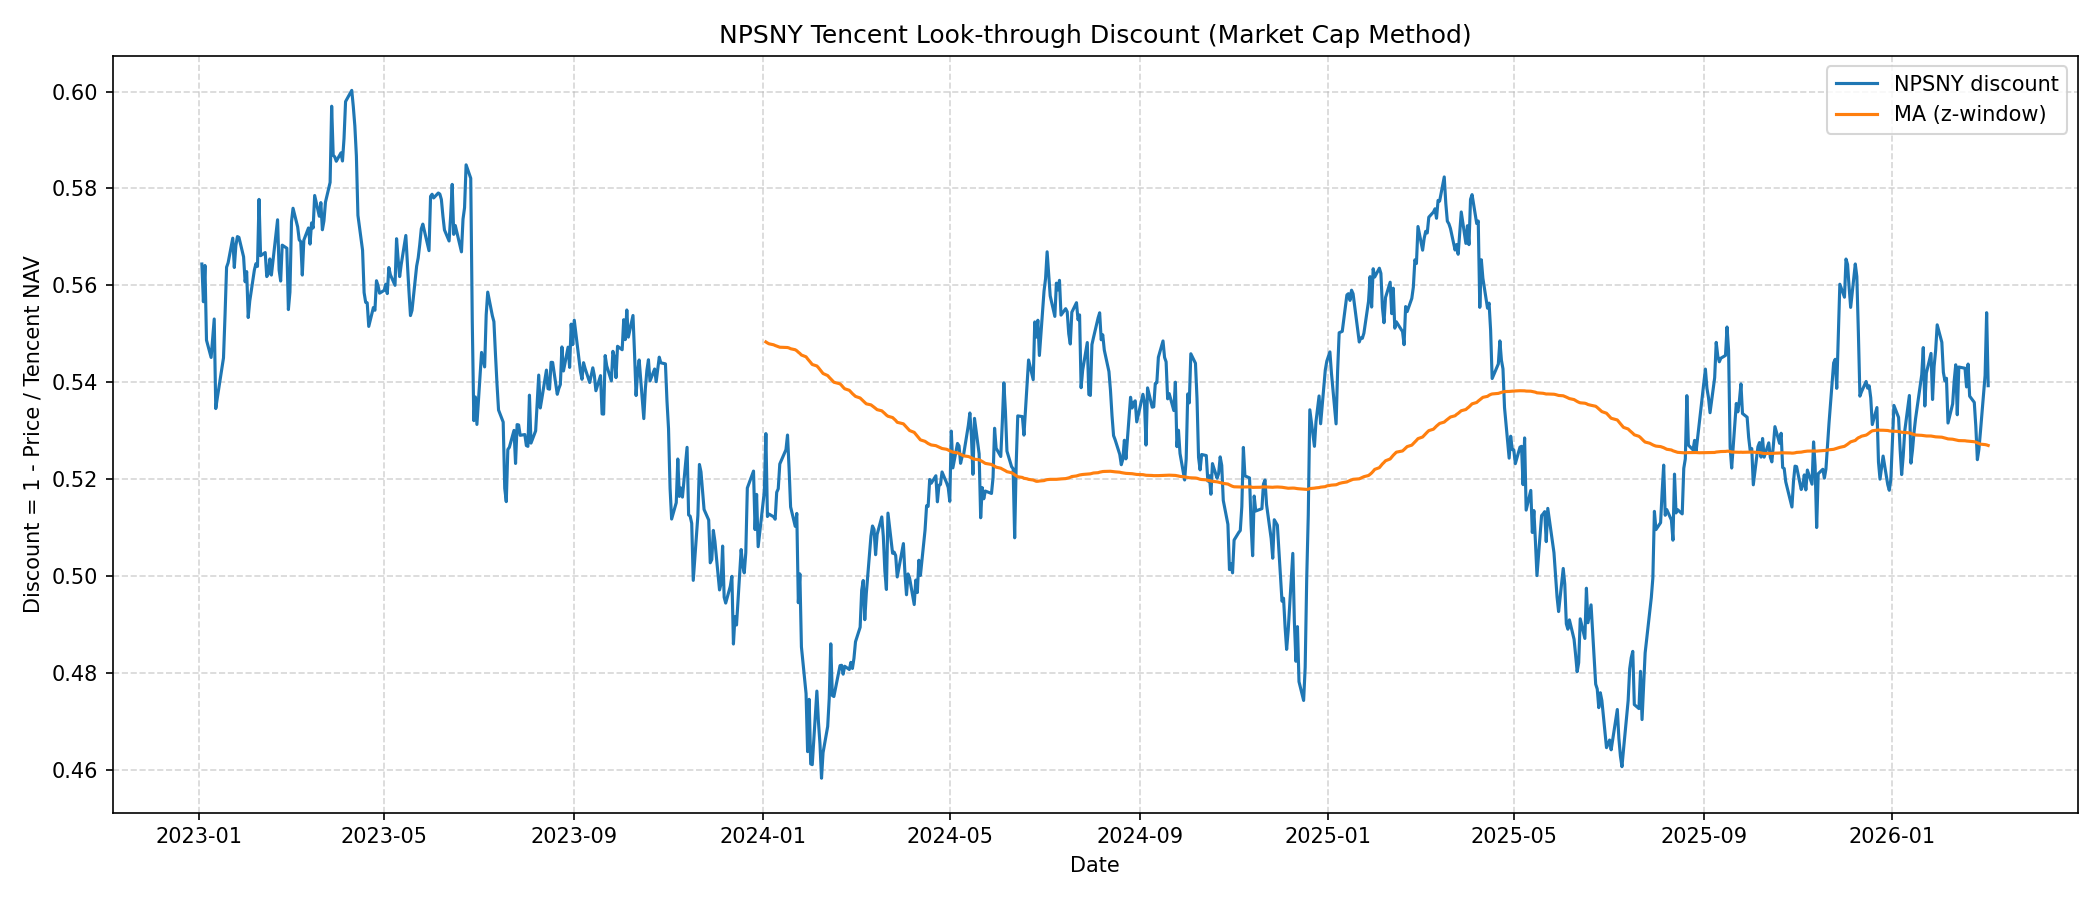
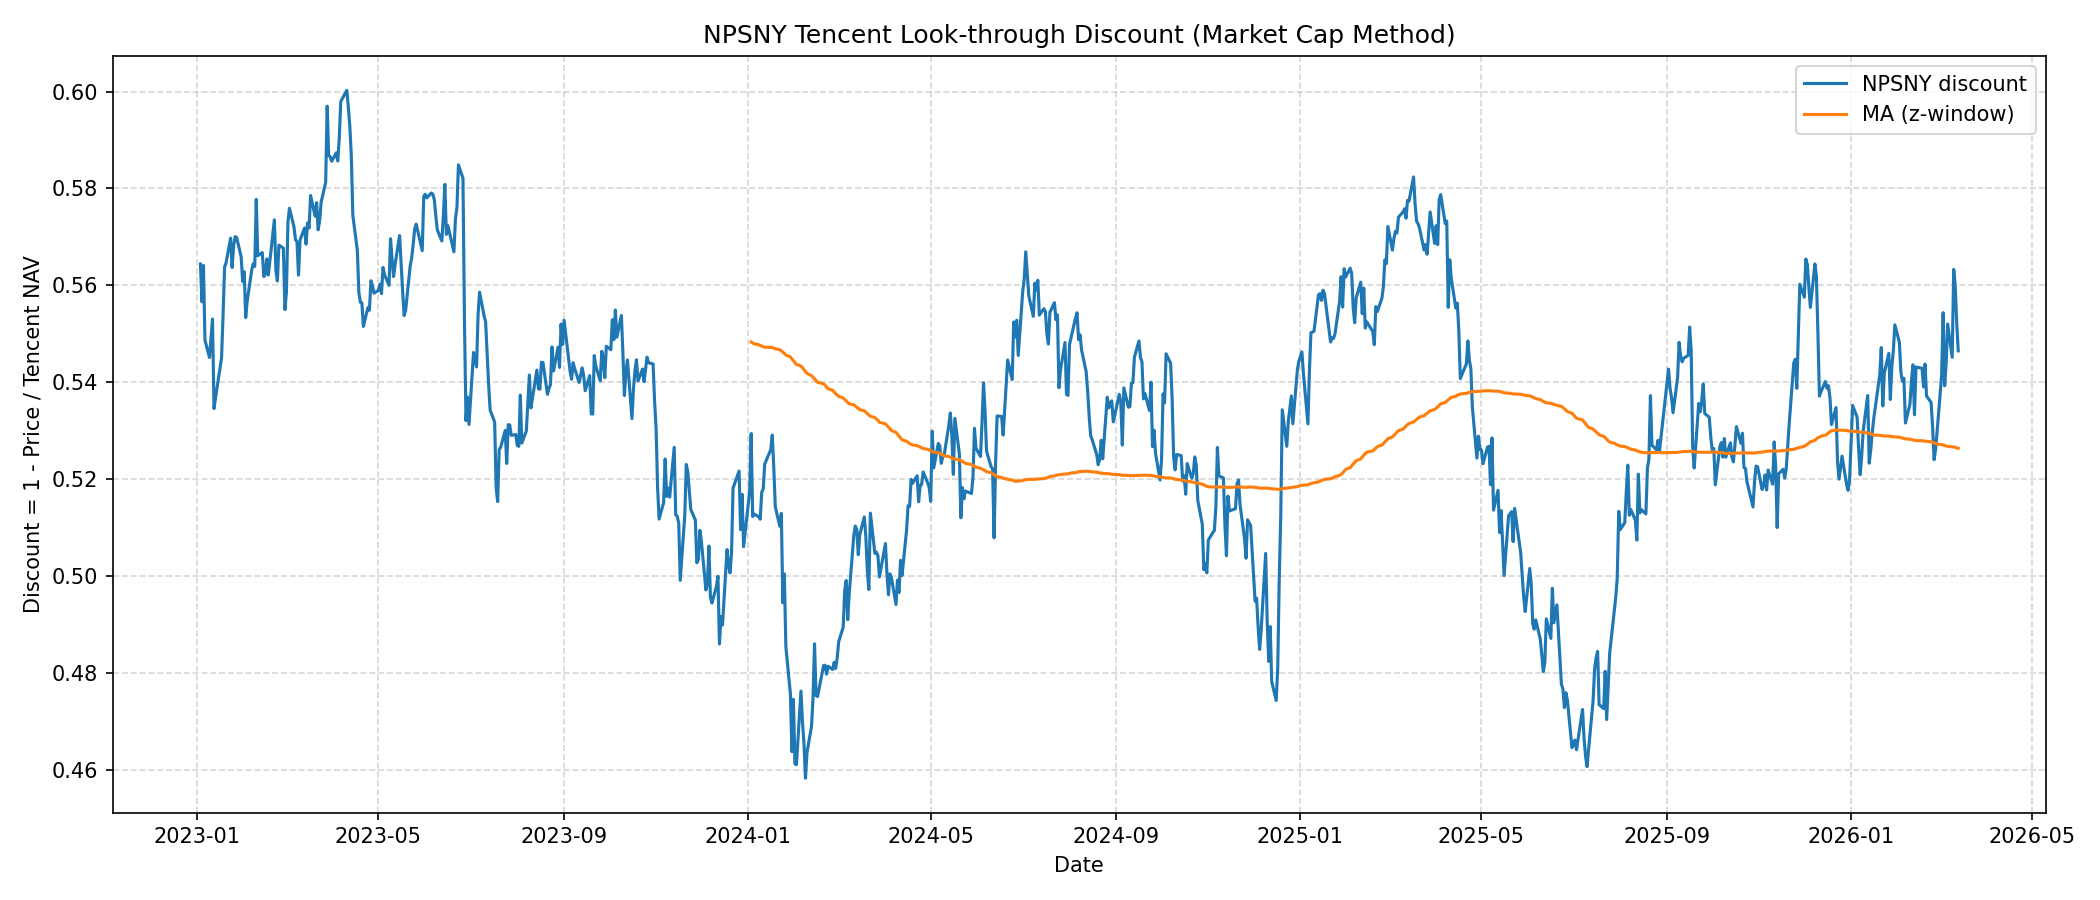
upside correction

diff --git a/gui/components/chart_window.py b/gui/components/chart_window.py
@@ -287,17 +287,24 @@ class ChartWindow(ttk.Toplevel):
                         )
 
                         current_price = df["Close"].iloc[-1]
-                        if target_price and target_price > current_price:
-                            upside = (
-                                (target_price - current_price) / current_price
-                            ) * 100
+                        
+                        # --- Logic for displaying upside (positive or negative) ---
+                        if target_price:
+                            # For consistency with other windows, we check if target > current
+                            # assuming a long position by default for these labels.
+                            upside_perc = ((target_price - current_price) / current_price) * 100
+                            
+                            color = "green" if upside_perc >= 0 else "red"
+                            arrow = "↑" if upside_perc >= 0 else "↓"
+                            label_type = "upside" if upside_perc >= 0 else "downside"
+                            
                             self.upside_label.configure(
-                                text=f"↑{upside:.1f}% upside", foreground="green"
+                                text=f"{arrow}{abs(upside_perc):.1f}% {label_type}", 
+                                foreground=color
                             )
                         elif entry_price and current_price < entry_price:
-                            downside = (
-                                (entry_price - current_price) / entry_price
-                            ) * 100
+                            # Fallback to existing entry-based logic if no target is found
+                            downside = ((entry_price - current_price) / entry_price) * 100
                             self.upside_label.configure(
                                 text=f"↓{downside:.1f}% downside", foreground="red"
                             )

diff --git a/gui/components/technical_analysis_window.py b/gui/components/technical_analysis_window.py
@@ -655,8 +655,14 @@ class TechnicalAnalysisWindow(ttk.Toplevel):
                         else:
                             gain = (cp - self.target_price) / cp * 100
 
-                        upside_str = f"Upside: {abs(float(gain)):.1f}%"
-                        self.upside_label.config(text=upside_str)
+                        # Calculate color and prefix based on whether gain is positive or negative
+                        # For long positions, gain is positive if target > current price
+                        # For short positions, gain is positive if current price > target
+                        color = "#4CAF50" if gain >= 0 else "#F44336"
+                        prefix = "" if gain >= 0 else "-"
+                        
+                        upside_str = f"Upside: {prefix}{abs(float(gain)):.1f}%"
+                        self.upside_label.config(text=upside_str, foreground=color)
                     else:
                         self.upside_label.config(text="")
 

diff --git a/gui/components/watchlist.py b/gui/components/watchlist.py
@@ -404,7 +404,9 @@ class WatchlistWidget(ttk.Frame):
                         gain = (target_val - price_val) / price_val * 100
                     else:
                         gain = (price_val - target_val) / price_val * 100
-                    upside_str = f"{abs(float(gain)):.2f}%"
+                    
+                    sign = "+" if gain >= 0 else "-"
+                    upside_str = f"{sign}{abs(float(gain)):.2f}%"
             except Exception:
                 upside_str = "-"
 
